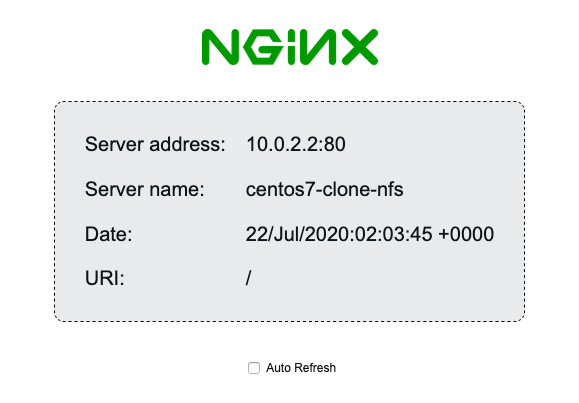
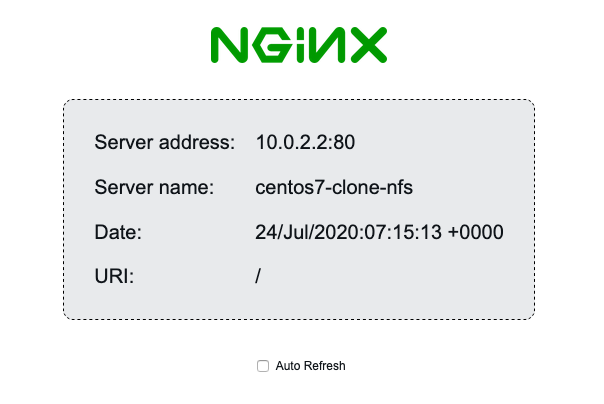
update masquerade lab for rhpds environment

diff --git a/docs/workshop/content/masquerade.md b/docs/workshop/content/masquerade.md
@@ -110,7 +110,9 @@ $ oc get vmi/centos7-masq
 Error from server (NotFound): virtualmachineinstances.kubevirt.io "centos7-masq" not found
 ~~~
 
-Oops?! What happened? Where is our instance? As you'll recall the instance is just the running version of the VM, so let's see what's up with our VM:
+Oops?! What happened? Where is our instance? WHat did we break?
+
+As you'll recall the instance is just the running version of the VM, so let's see what's up with our VM:
 
 ~~~bash
 $ oc get vm
@@ -127,7 +129,7 @@ Aha! It's not running. Why? Well, look closely at the yaml above and you'll find
 
 It pays to review before cutting and pasting! ;)
 
-Ok let's start the VM:
+Ok let's start the VM using virtctl (we have all the tools!):
 
 ~~~bash
 $ virtctl start centos7-masq
@@ -140,22 +142,22 @@ centos8-server-nfs   20h     true
 
 $ oc get vmi/centos7-masq
 NAME           AGE   PHASE     IP            NODENAME
-centos7-masq   10s   Running   10.131.0.47   ocp-9pv98-worker-g78bj
+centos7-masq   10s   Running   10.131.0.49   cluster-august-lhrd5-worker-mh52l
 ~~~
 
-But then run it again:
+But then run it again a few times until you see the IP dissapear (or run a watch):
 
 ~~~bash
 $ oc get vmi/centos7-masq
 NAME           AGE   PHASE     IP    NODENAME
-centos7-masq   38s   Running         ocp-9pv98-worker-g78bj
+centos7-masq   38s   Running         cluster-august-lhrd5-worker-mh52l
 ~~~
 
-Again, what's going on here? 
+Oh dear, hat's going on here now? 
 
-Well as before, this is a clone, and the NIC config will ave picked up the old MAC address, which is incorrect for the new VMI.
+Well as before, this is a clone, and the NIC config will have picked up the old MAC address, which is incorrect for the new VMI.
 
-So, as before use `virtctl` to login (cloud-init on the original build will have ensured this is possible) and remove the `HWADDR` line from the eth0 config:
+So, as before use we can use `virtctl` to login (cloud-init on the original build will have ensured the login is enabled and this is possible) and remove the `HWADDR` line from the eth0 config:
 
 ~~~bash
 $ virtctl console centos7-masq
@@ -173,15 +175,19 @@ Last login: Wed Jul 22 01:36:32 on ttyS0
 
 Determining IP information for eth0... done.
 
-[centos@centos7-clone-nfs ~]$ ifconfig eth0
-eth0: flags=4163<UP,BROADCAST,RUNNING,MULTICAST>  mtu 1450
-        inet 10.0.2.2  netmask 255.255.255.0  broadcast 10.0.2.255
-        inet6 fe80::ff:fe93:c070  prefixlen 64  scopeid 0x20<link>
-        ether 02:00:00:93:c0:70  txqueuelen 1000  (Ethernet)
-        RX packets 22  bytes 2064 (2.0 KiB)
-        RX errors 0  dropped 0  overruns 0  frame 0
-        TX packets 9  bytes 942 (942.0 B)
-        TX errors 0  dropped 0 overruns 0  carrier 0  collisions 0
+[centos@centos7-clone-nfs ~]$ ip a
+1: lo: <LOOPBACK,UP,LOWER_UP> mtu 65536 qdisc noqueue state UNKNOWN group default qlen 1000
+    link/loopback 00:00:00:00:00:00 brd 00:00:00:00:00:00
+    inet 127.0.0.1/8 scope host lo
+       valid_lft forever preferred_lft forever
+    inet6 ::1/128 scope host
+       valid_lft forever preferred_lft forever
+2: eth0: <BROADCAST,MULTICAST,UP,LOWER_UP> mtu 1450 qdisc pfifo_fast state UP group default qlen 1000
+    link/ether 02:00:00:97:cd:40 brd ff:ff:ff:ff:ff:ff
+    inet 10.0.2.2/24 brd 10.0.2.255 scope global dynamic eth0
+       valid_lft 86313598sec preferred_lft 86313598sec
+    inet6 fe80::ff:fe97:cd40/64 scope link
+       valid_lft forever preferred_lft forever
 
 [centos@centos7-clone-nfs ~]$ exit
 logout
@@ -194,23 +200,31 @@ centos7-clone-nfs login:
 (ctrl-]) to get back to CLI.
 ~~~ 
 
-So, we did it. 
+So, we did it. Let's look for the IP (be patient, it will take a few moments)
 
 ~~~bash
 $ oc get vmi
-NAME                 AGE     PHASE     IP                NODENAME
-centos7-masq         5m32s   Running   10.0.2.2/24       ocp-9pv98-worker-g78bj
-centos8-server-nfs   20h     Running   192.168.0.28/24   ocp-9pv98-worker-pj2dn
-~~~
-Except wait a second. That's not the IP we saw before.
+NAME                 AGE     PHASE     IP                 NODENAME
+centos7-masq         2m35s   Running                      cluster-august-lhrd5-worker-mh52l
+centos8-server-nfs   97m     Running   192.168.47.34/24   cluster-august-lhrd5-worker-6w624
 
-It has changed to 10.0.2.2. 
+$ oc get vmi
+NAME                 AGE     PHASE     IP                 NODENAME
+centos7-masq         2m47s   Running   10.0.2.2/24        cluster-august-lhrd5-worker-mh52l
+centos8-server-nfs   97m     Running   192.168.47.34/24   cluster-august-lhrd5-worker-6w624
+~~~
+
+Except wait a second ... that's not the IP we saw before.
+
+It has changed to **10.0.2.2**. 
 
 *Why is this? What's going on?*
 
-Well if you remember correctly we used the cloned Centos image which has a qemu-guest-agent installed. But when we use a `masquerade{}` deployment we are, of course, not interested in the IP assigned to the host. In fact, we are using this so we can use a private, non-routable range and "hide" behind our masqueraded range (the 10. range). But the agent is trying to be helpful and is telling OpenShift the IP it *thinks* we want, the IP *on* the hosts NIC. Nice but, we don't want it.
+Well if you remember correctly we used the cloned Centos image which has a qemu-guest-agent installed which can report on the IP assigned *to the host's NIC*. 
 
-But they're both there.
+But when we use a `masquerade{}` deployment we are, of course, **not** interested in the IP assigned to the host. In fact, we are using this so we can use a private, non-routable range and "hide" behind our masqueraded range (the 10. range). But the agent is trying to be helpful and is telling OpenShift the IP it *thinks* we want and the IP it knows how to give: the IP *on* the hosts NIC. Nice agent, but, sorry, no we don't care.
+
+But they're both there of course.
 
 If you recall, all VMs are managed by pods, and the pod manages the networking. So we can ask the pod associated with the VM for the actual IP ranges being managed here. It's easy ... first find the name of the `launcher` pod associated with this instance:
 
@@ -222,13 +236,13 @@ virt-launcher-centos7-masq-7flv8         1/1     Running     0          7m56s
 Then let's ask check with the *pod* for the actual IPs it is managing for the VM:
 
 ~~~bash
-$ oc describe pod/virt-launcher-centos7-masq-7flv8 | grep -A 11 networks-status
+$ oc describe pod/virt-launcher-centos7-masq-r2gk4| grep -A 11 networks-status
               k8s.v1.cni.cncf.io/networks-status:
                 [{
                     "name": "openshift-sdn",
                     "interface": "eth0",
                     "ips": [
-                        "10.131.0.47"
+                        "10.131.0.49"
                     ],
                     "default": true,
                     "dns": {}
@@ -237,15 +251,15 @@ $ oc describe pod/virt-launcher-centos7-masq-7flv8 | grep -A 11 networks-status
               traffic.sidecar.istio.io/kubevirtInterfaces: k6t-eth0
 ~~~
 
-There it is, `10.131.0.47` is back!
+There it is, `10.131.0.49` is "back"!
 
 And again, if you ask OpenShift for the IP, the qemu-guest-agent supplies the *actual* IP that the VM is set to, just like it's designed to do.
 
 ~~~bash
 $ oc get vmi
-NAME                 AGE   PHASE     IP                NODENAME
-centos7-masq         14m   Running   10.0.2.2/24       ocp-9pv98-worker-g78bj
-centos8-server-nfs   20h   Running   192.168.0.28/24   ocp-9pv98-worker-pj2dn
+NAME                 AGE     PHASE     IP                 NODENAME
+centos7-masq         7m27s   Running   10.0.2.2/24        cluster-august-lhrd5-worker-mh52l
+centos8-server-nfs   102m    Running   192.168.47.34/24   cluster-august-lhrd5-worker-6w624
 ~~~
 
 
@@ -260,32 +274,32 @@ For example, the `virtctl` tool provides the capability of managing the lifecycl
 If you remember, our Centos image has NGINX running on port 80, let's use the `virtctl` utility to expose the virtual machine instance on that port:
 
 ~~~bash
-$ virtctl expose virtualmachineinstance centos7-masq --name centos7-masq-port80 --port 80
-Service centos7-masq-port80 successfully exposed for virtualmachineinstance centos7-masq
+$ virtctl expose virtualmachineinstance centos7-masq --name centos7-masq-externalport --port 80
+Service centos7-masq-externalport successfully exposed for virtualmachineinstance centos7-masq
 
-$ oc get svc/centos7-masq-port80
-NAME                  TYPE        CLUSTER-IP       EXTERNAL-IP   PORT(S)   AGE
-centos7-masq-port80   ClusterIP   172.30.223.253   <none>        80/TCP    22s
+$ oc get svc/centos7-masq-externalport
+NAME                        TYPE        CLUSTER-IP       EXTERNAL-IP   PORT(S)   AGE
+centos7-masq-externalport   ClusterIP   172.30.235.215   <none>        80/TCP    18s
 ~~~
 
 Next we create a route for our service and in this case we are using the `edge` designator. This creates a route that uses edge TLS termination provided by the OpenShift cluster.:
 
 ~~~bash
-$ oc create route edge --service=centos7-masq-port80
-route.route.openshift.io/centos7-masq-port80 created
+$ oc create route edge --service=centos7-masq-externalport
+route.route.openshift.io/centos7-masq-externalport created
 ~~~
 
 And view the route:
 
 ~~~bash
 $ oc get routes
-NAME                  HOST/PORT                                         PATH   SERVICES              PORT    TERMINATION   WILDCARD
-centos7-masq-port80   centos7-masq-port80-default.apps.ocp.augusts.be          centos7-masq-port80   <all>   edge          None
+NAME                        HOST/PORT                                                                        PATH   SERVICES                    PORT    TERMINATION   WILDCARD
+centos7-masq-externalport   centos7-masq-externalport-default.apps.cluster-august.students.osp.opentlc.com          centos7-masq-externalport   <all>   edge          Non
 ~~~
 
-You can now visit the endpoint at [https://fc31-service-default.apps.cnv.example.com/](https://fc31-service-default.apps.cnv.example.com/) in your proxied browser and should find the NGINX server from your Centos based VM running behind an TLS encrypted endpoint.
+You can now visit that endpoint via an HTTPS connection (ie, in this example it is https://centos7-masq-externalport-default.apps.cluster-august.students.osp.opentlc.com) in a browser and should find the NGINX server from your Centos based VM running behind an TLS encrypted endpoint.
 
-<img src="img/centos7-masq-nginx.png"/>
+<img src="img/centos7-masq-nginx2.png"/>
 
 > **NOTE**: If you get an "Application is not available" message, make sure that you're accessing the route with **https** - the router performs TLS termination for us, and therefore there's not actually anything listening on port 80 on the outside world, it just forwards 443 (OpenShift ingress) -> 80 (pod).
 
@@ -305,50 +319,57 @@ And check which port has been allocated:
 
 ~~~bash
 $ oc get svc/centos7-ssh-node
-NAME               TYPE       CLUSTER-IP     EXTERNAL-IP   PORT(S)        AGE
-centos7-ssh-node   NodePort   172.30.60.49   <none>        22:30766/TCP   23s
+NAME               TYPE       CLUSTER-IP       EXTERNAL-IP   PORT(S)        AGE
+centos7-ssh-node   NodePort   172.30.141.173   <none>        22:32101/TCP   11s
 ~~~
 
-In this case our server is accessible on port **30766**. Review which node has been deployed to:
+In this case our server is accessible on port **32101**. Review which node has been deployed to:
 
 ~~~bash
 $ oc get vmi/centos7-masq
 NAME           AGE   PHASE     IP            NODENAME
-centos7-masq   37m   Running   10.0.2.2/24   ocp-9pv98-worker-g78bj
+centos7-masq   13m   Running   10.0.2.2/24   cluster-august-lhrd5-worker-mh52l
 ~~~
 
 Now that we know which worker it's on we can try SSH'ing to the VM via the mapped port on the underlying host's `NodePort`:
 
 ~~~bash
-$ ssh centos@ocp-9pv98-worker-g78bj -p 30766
-centos@ocp-9pv98-worker-g78bj's password:
+$ ssh centos@cluster-august-lhrd5-worker-mh52l -p 32101
+(...)
 
-Last login: Wed Jul 22 01:38:27 2020
+centos@cluster-august-lhrd5-worker-mh52l's password:
+Last login: Fri Jul 24 07:06:06 2020
+
 [centos@centos7-clone-nfs ~]$
 
-[centos@centos7-clone-nfs ~]$ exit
-logout
-Connection to ocp-9pv98-worker-g78bj closed
+[centos@centos7-clone-nfs ~]$ logout
+Connection to cluster-august-lhrd5-worker-mh52l closed
 ~~~
 
-NodePort services are generally available on *every* host, i.e. even though the VM is running on a specific host, we can ssh to any another worker, on the same port, and reahc it. Try it.
+But you know what's even better?
+
+NodePort services are available on *every* host, i.e. even though the VM is running on a specific host, we can ssh to any another worker, on the same port, and reach it. Try it.
 
 ~~~bash
-$ ssh centos@ocp-9pv98-worker-pj2dn -p 30766
+$ ssh centos@cluster-august-lhrd5-worker-6w624 -p 32101
 
-centos@ocp-9pv98-worker-pj2dn's password:
-Last login: Wed Jul 22 02:16:01 2020 from 10.131.0.1
+(...)
+
+centos@cluster-august-lhrd5-worker-6w624's password:
+Last login: Fri Jul 24 07:20:26 2020 from 10.131.0.1
 
 [centos@centos7-clone-nfs ~]$
+
 ~~~
 
 Be sure to logout of the VM before proceeding:
 
 ~~~bash
-[centos@centos7-clone-nfs ~]$ logout
-Connection to ocp-9pv98-worker-pj2dn closed.
+centos@centos7-clone-nfs ~]$ logout
+Connection to luster-august-lhrd5-worker-6w624 closed.
 
-[asimonel-redhat.com@bastion cnv]$
+[cloud-user@bastion ~]$
+
 ~~~
 
 ### Via the cluster IP
@@ -363,50 +384,47 @@ Service centos-ssh successfully exposed for virtualmachineinstance centos7-masq
 We can now see it in our `oc get svc` output:
 
 ~~~bash
-[asimonel-redhat.com@bastion cnv]$ oc get svc
-NAME                  TYPE           CLUSTER-IP       EXTERNAL-IP                            PORT(S)        AGE
-centos-ssh            ClusterIP      172.30.97.158    <none>                                 22/TCP         73s
-centos7-masq-port80   ClusterIP      172.30.223.253   <none>                                 80/TCP         33m
-centos7-ssh-node      NodePort       172.30.60.49     <none>                                 22:30766/TCP   17m
-kubernetes            ClusterIP      172.30.0.1       <none>                                 443/TCP        44h
-openshift             ExternalName   <none>           kubernetes.default.svc.cluster.local   <none>         44h
+$ oc get svc
+NAME                        TYPE           CLUSTER-IP       EXTERNAL-IP                            PORT(S)        AGE
+centos-ssh                  ClusterIP      172.30.232.4     <none>                                 22/TCP         7s
+centos7-masq-externalport   ClusterIP      172.30.235.215   <none>                                 80/TCP         10m
+centos7-ssh-node            NodePort       172.30.141.173   <none>                                 22:32101/TCP   5m26s
+kubernetes                  ClusterIP      172.30.0.1       <none>                                 443/TCP        6h25m
+openshift                   ExternalName   <none>           kubernetes.default.svc.cluster.local   <none>         6h2m
 ~~~
 
-We can then connect directly to that `CLUSTER-IP` listed for the service (in this case `centos-ssh`, so `172.30.97.158`) directly on port 22 from the worker node itself.
+We can then connect directly to that `CLUSTER-IP` listed for the service (in this case `centos-ssh`, so `172.30.232.4`) directly on port 22 from the worker node itself.
 
 So, find the node ...
+
 ~~~bash
 $ oc get vmi
-NAME                 AGE   PHASE     IP                NODENAME
-centos7-masq         55m   Running   10.0.2.2/24       ocp-9pv98-worker-g78bj
-centos8-server-nfs   21h   Running   192.168.0.28/24   ocp-9pv98-worker-pj2dn
+NAME                 AGE    PHASE     IP                 NODENAME
+centos7-masq         19m    Running   10.0.2.2/24        cluster-august-lhrd5-worker-mh52l
+centos8-server-nfs   113m   Running   192.168.47.34/24   cluster-august-lhrd5-worker-6w624
 ~~~
 
 And open a debug pod on it.
 
 ~~~bash
-[asimonel-redhat.com@bastion cnv]$ oc debug node/ocp-9pv98-worker-g78bj
-Starting pod/ocp-9pv98-worker-g78bj-debug ...
+$ oc debug node/cluster-august-lhrd5-worker-mh52l
+Starting pod/cluster-august-lhrd5-worker-mh52l-debug ...
 To use host binaries, run `chroot /host`
-Pod IP: 10.0.0.27
+Pod IP: 10.0.0.33
 If you don't see a command prompt, try pressing enter.
-
 sh-4.2# chroot /host
 sh-4.4#
 ~~~
 
-And ssh to the `CLUSTER-IP` once on the host:
+And ssh to the `CLUSTER-IP` once on the host (via the debug pod):
 
 ~~~bash
-sh-4.4# ssh centos@172.30.97.158
-The authenticity of host '172.30.97.158 (172.30.97.158)' can't be established.
-ECDSA key fingerprint is SHA256:cw6CPqabOpoC+DWIMHH0GBPtrWyBma8f1ksRODU8ZF0.
-Are you sure you want to continue connecting (yes/no/[fingerprint])? yes
-Warning: Permanently added '172.30.97.158' (ECDSA) to the list of known hosts.
-centos@172.30.97.158's password:
-Last login: Wed Jul 22 02:17:57 2020 from 10.128.2.1
-
+sh-4.4# ssh centos@172.30.232.4
+(...)
+centos@172.30.232.4's password:
+Last login: Fri Jul 24 07:21:36 2020 from 10.128.2.1
 [centos@centos7-clone-nfs ~]$
+
 ~~~
 
 Success!
@@ -426,6 +444,6 @@ sh-4.2# exit
 exit
 
 Removing debug pod ...
-[asimonel-redhat.com@bastion cnv]$
+[cloud-user@bastion ~]$
 ~~~
 
